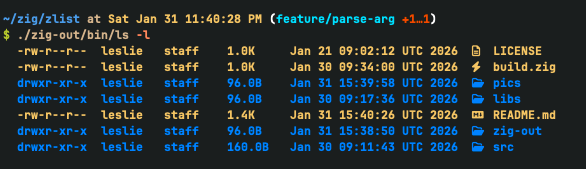
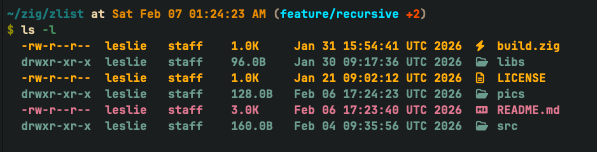
docs: Document recursive listing `-r` flag with examples

Pull request: Feature/recursive
Implement recursive directory listing functionality

diff --git a/README.md b/README.md
@@ -22,6 +22,7 @@
 
 ![Preview1](pics/screenshot.jpg)
 ![Preview2](pics/screenshot2.jpg)
+![Preview3](pics/screenshot3.jpg)
 
 *(Make sure you have a [Nerd Font](https://www.nerdfonts.com/) installed in your terminal to see the icons!)*
 
@@ -60,6 +61,7 @@ ls [OPTIONS] [PATH]
 | `-l`, `--long` | Enable detailed view (permissions, size, date, user). |
 | `-a`, `--a` | Show hidden files (starting with `.`). |
 | `-s`, `--sort <mode>` | **0**: Name (A-Z) [Default]<br>**1**: Name Length (Shortest first) |
+| `-r`, `--recursive` | Recursively list subdirectories encountered. |
 | `-h`, `--help` | Print help message. |
 
 ### Examples
@@ -79,13 +81,18 @@ ls -la
 ls -s 1
 ```
 
+**Dig deep (Recursive listing):**
+```bash
+ls -r
+```
+
 ## 🛣 Roadmap
 
 *   [x] Basic file listing & recursion
 *   [x] Color output & Nerd Font icons
 *   [x] Detailed file stats
 *   [x] Sorting by name length
-*   [ ] Recursive directory traversal (`-R`)
+*   [x] Recursive directory traversal (`-r`)
 
 ## 🤝 Contributing
 